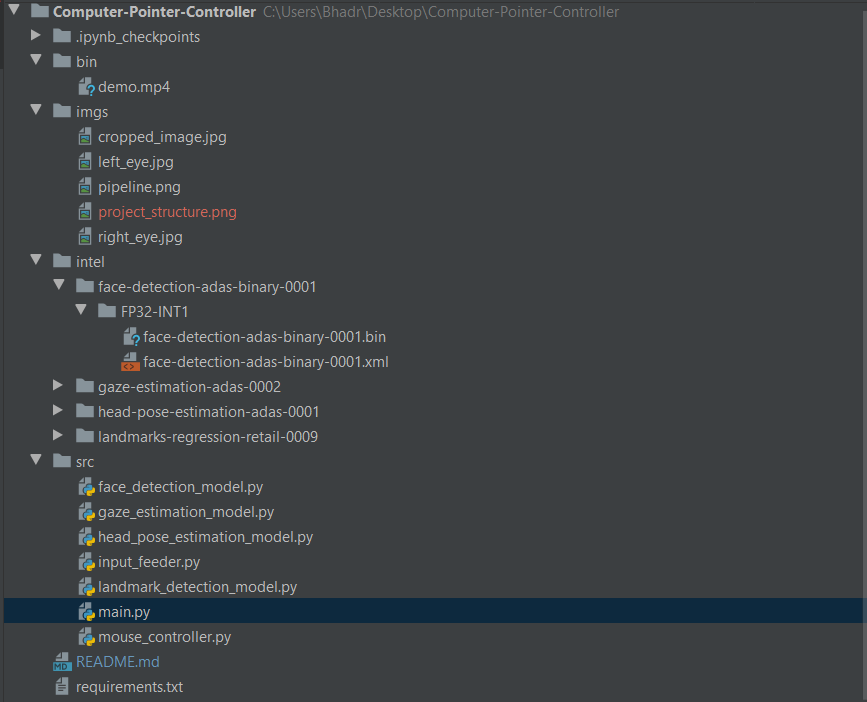
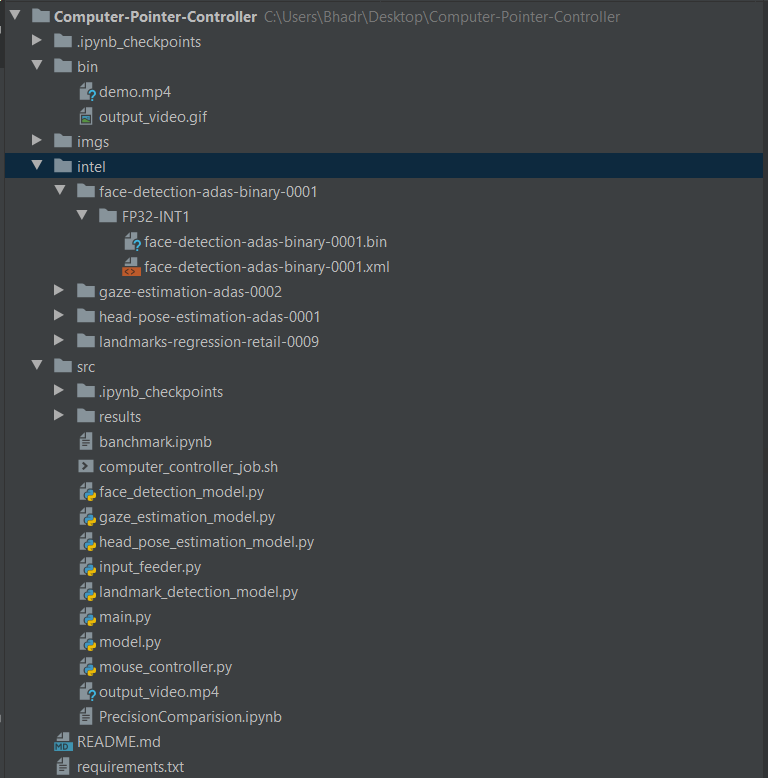
Updated README.md and added project_structure.png

Changed region(s): [[0.0, 0.0, 1.0, 1.0]]

diff --git a/README.md b/README.md
@@ -88,7 +88,9 @@ Command Line Argument Information:
 
 intel: This folder contains models in IR format downloaded from Openvino Model Zoo
 
-src: This folder has 4 model class files, This class files has methods to load model and perform inference.
+src: This folder contains model files, pipeline file(main.py) and utilities 
+* `model.py` is the model class file which has common property of all the other model files. It is inherited by all the other model files 
+This folder has 4 model class files, This class files has methods to load model and perform inference.
 * `face_detection_model.py`
 * `gaze_estimation_model.py`
 * `landmark_detection_model.py`
